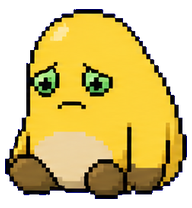
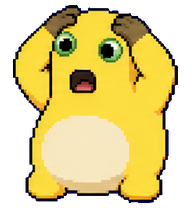
Refine failed animation to hands-on-head panic pose

diff --git a/yellow-thinker-run/prompts/rows/failed.md b/yellow-thinker-run/prompts/rows/failed.md
@@ -15,13 +15,16 @@ Style contract: Codex digital pet sprite style: pixel-art-adjacent low-resolutio
 
 Use this prompt as an authoritative sprite-production spec. Do not expand it into a polished illustration, painterly character image, anime key art, 3D render, vector mascot, glossy app icon, realistic animal portrait, or marketing artwork.
 
-Animation action: sad, failed, or deflated reaction.
+Animation action: panic-fail reaction based on a hands-on-head shocked pose.
 
 
 State-specific requirements:
-- Show failure through slumped pose, drooping ears/limbs, closed or sad eyes, and lower body position.
-- Tears, small smoke puffs, or tiny stars are allowed only if attached to or overlapping the pet silhouette and kept inside the same frame slot.
-- Do not draw red X marks, floating symbols, detached stars, separated smoke clouds, falling tear drops, dust, or other loose effects.
+- Match the reference mood: both paws placed on the top sides of the head in all frames, with a shocked open "O" mouth.
+- Keep the body upright and centered; failed emotion comes from panic, not sleepy slumping.
+- Use subtle frame-to-frame motion (small head wobble, mouth/eye variation) while preserving the same pose family.
+- Keep eyes normal (no X eyes) and maintain the same pet identity.
+- Optional tiny attached distress accents are allowed only if touching/overlapping the pet silhouette and staying inside the frame slot.
+- Do not draw detached symbols, detached stars, separated smoke clouds, falling tear drops, or floating punctuation.
 
 Transparency and artifact rules:
 - Prefer pose, expression, and silhouette changes over decorative effects.
